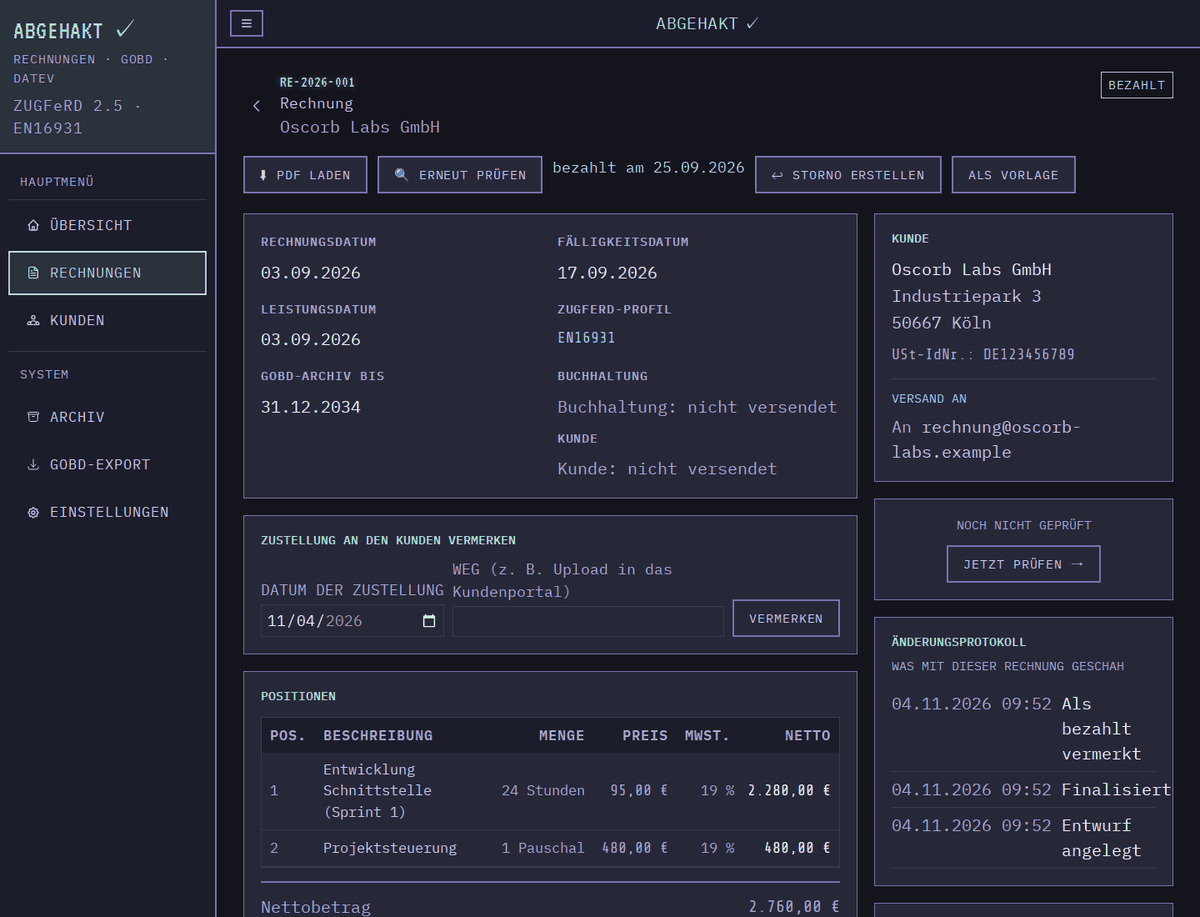
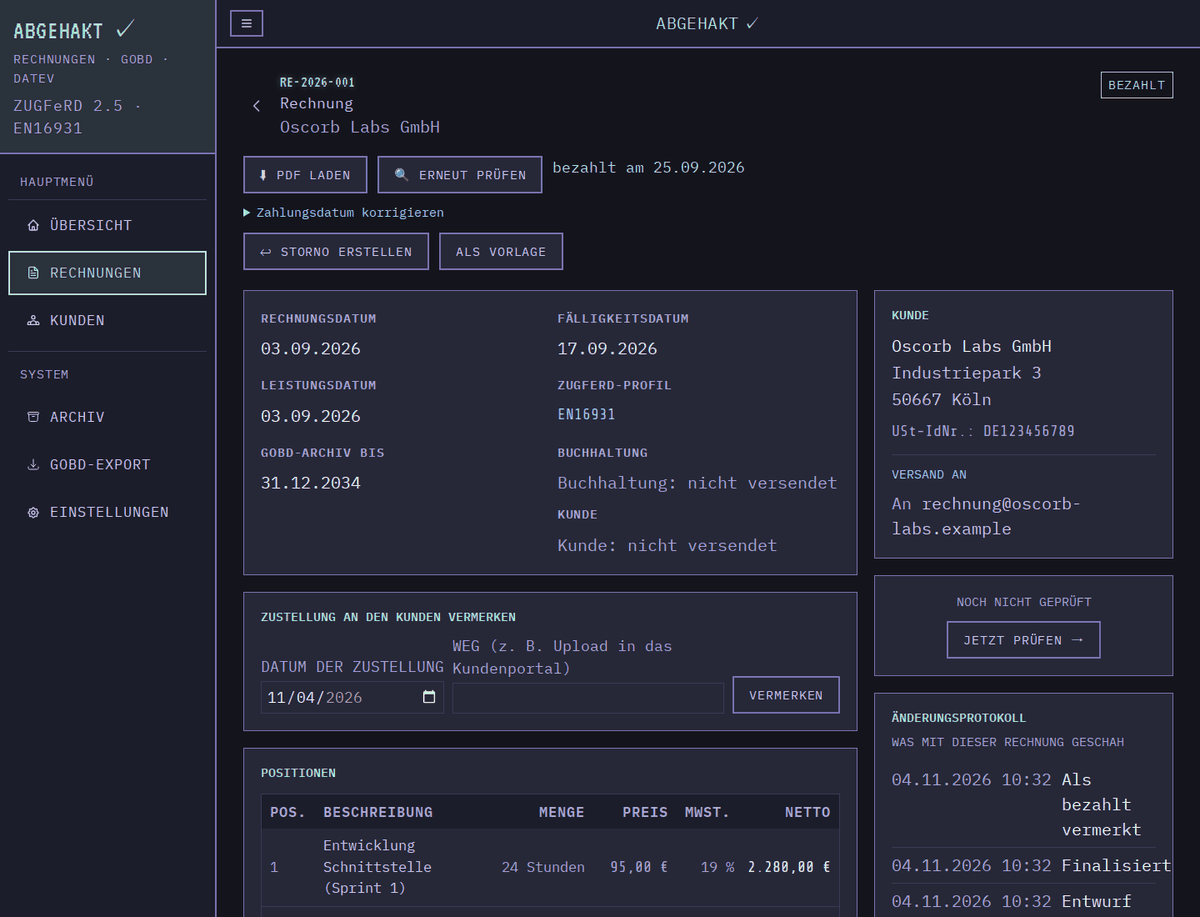
Doku: Bilder vom aktuellen Stand, 15-px-Grenze gilt jetzt durchgehend

Changed region(s): [[0.185, 0.1527, 0.9867, 1.0], [0.5858, 0.855, 0.7092, 0.8855]]

diff --git a/docs/ANWENDUNG.md b/docs/ANWENDUNG.md
@@ -1053,8 +1053,8 @@ nicht erhalten.
 
 **Abgehakt** ist das helle Formular-Design, **Pixel** das verspielte Retro-Design.
 **Terminal** ist dunkel, mit gedämpften Pastellfarben und hohem Kontrast, gedacht für
-langes Arbeiten. Die regulären Schriftgrößen beginnen bei 15 px; einzelne zusätzliche
-Hinweise verwenden derzeit noch kleinere Schrift. PDF und E-Rechnung sehen in jedem
+langes Arbeiten. Keine Schrift ist dort kleiner als 15 px, auch nicht in Hinweisen und
+Codeblöcken. PDF und E-Rechnung sehen in jedem
 Design gleich aus. Die Designwahl verändert nur die Oberfläche.
 
 ![Übersicht im hellen Design Abgehakt mit Forderungen und Kennzahlen](bilder/abgehakt-uebersicht.png)
